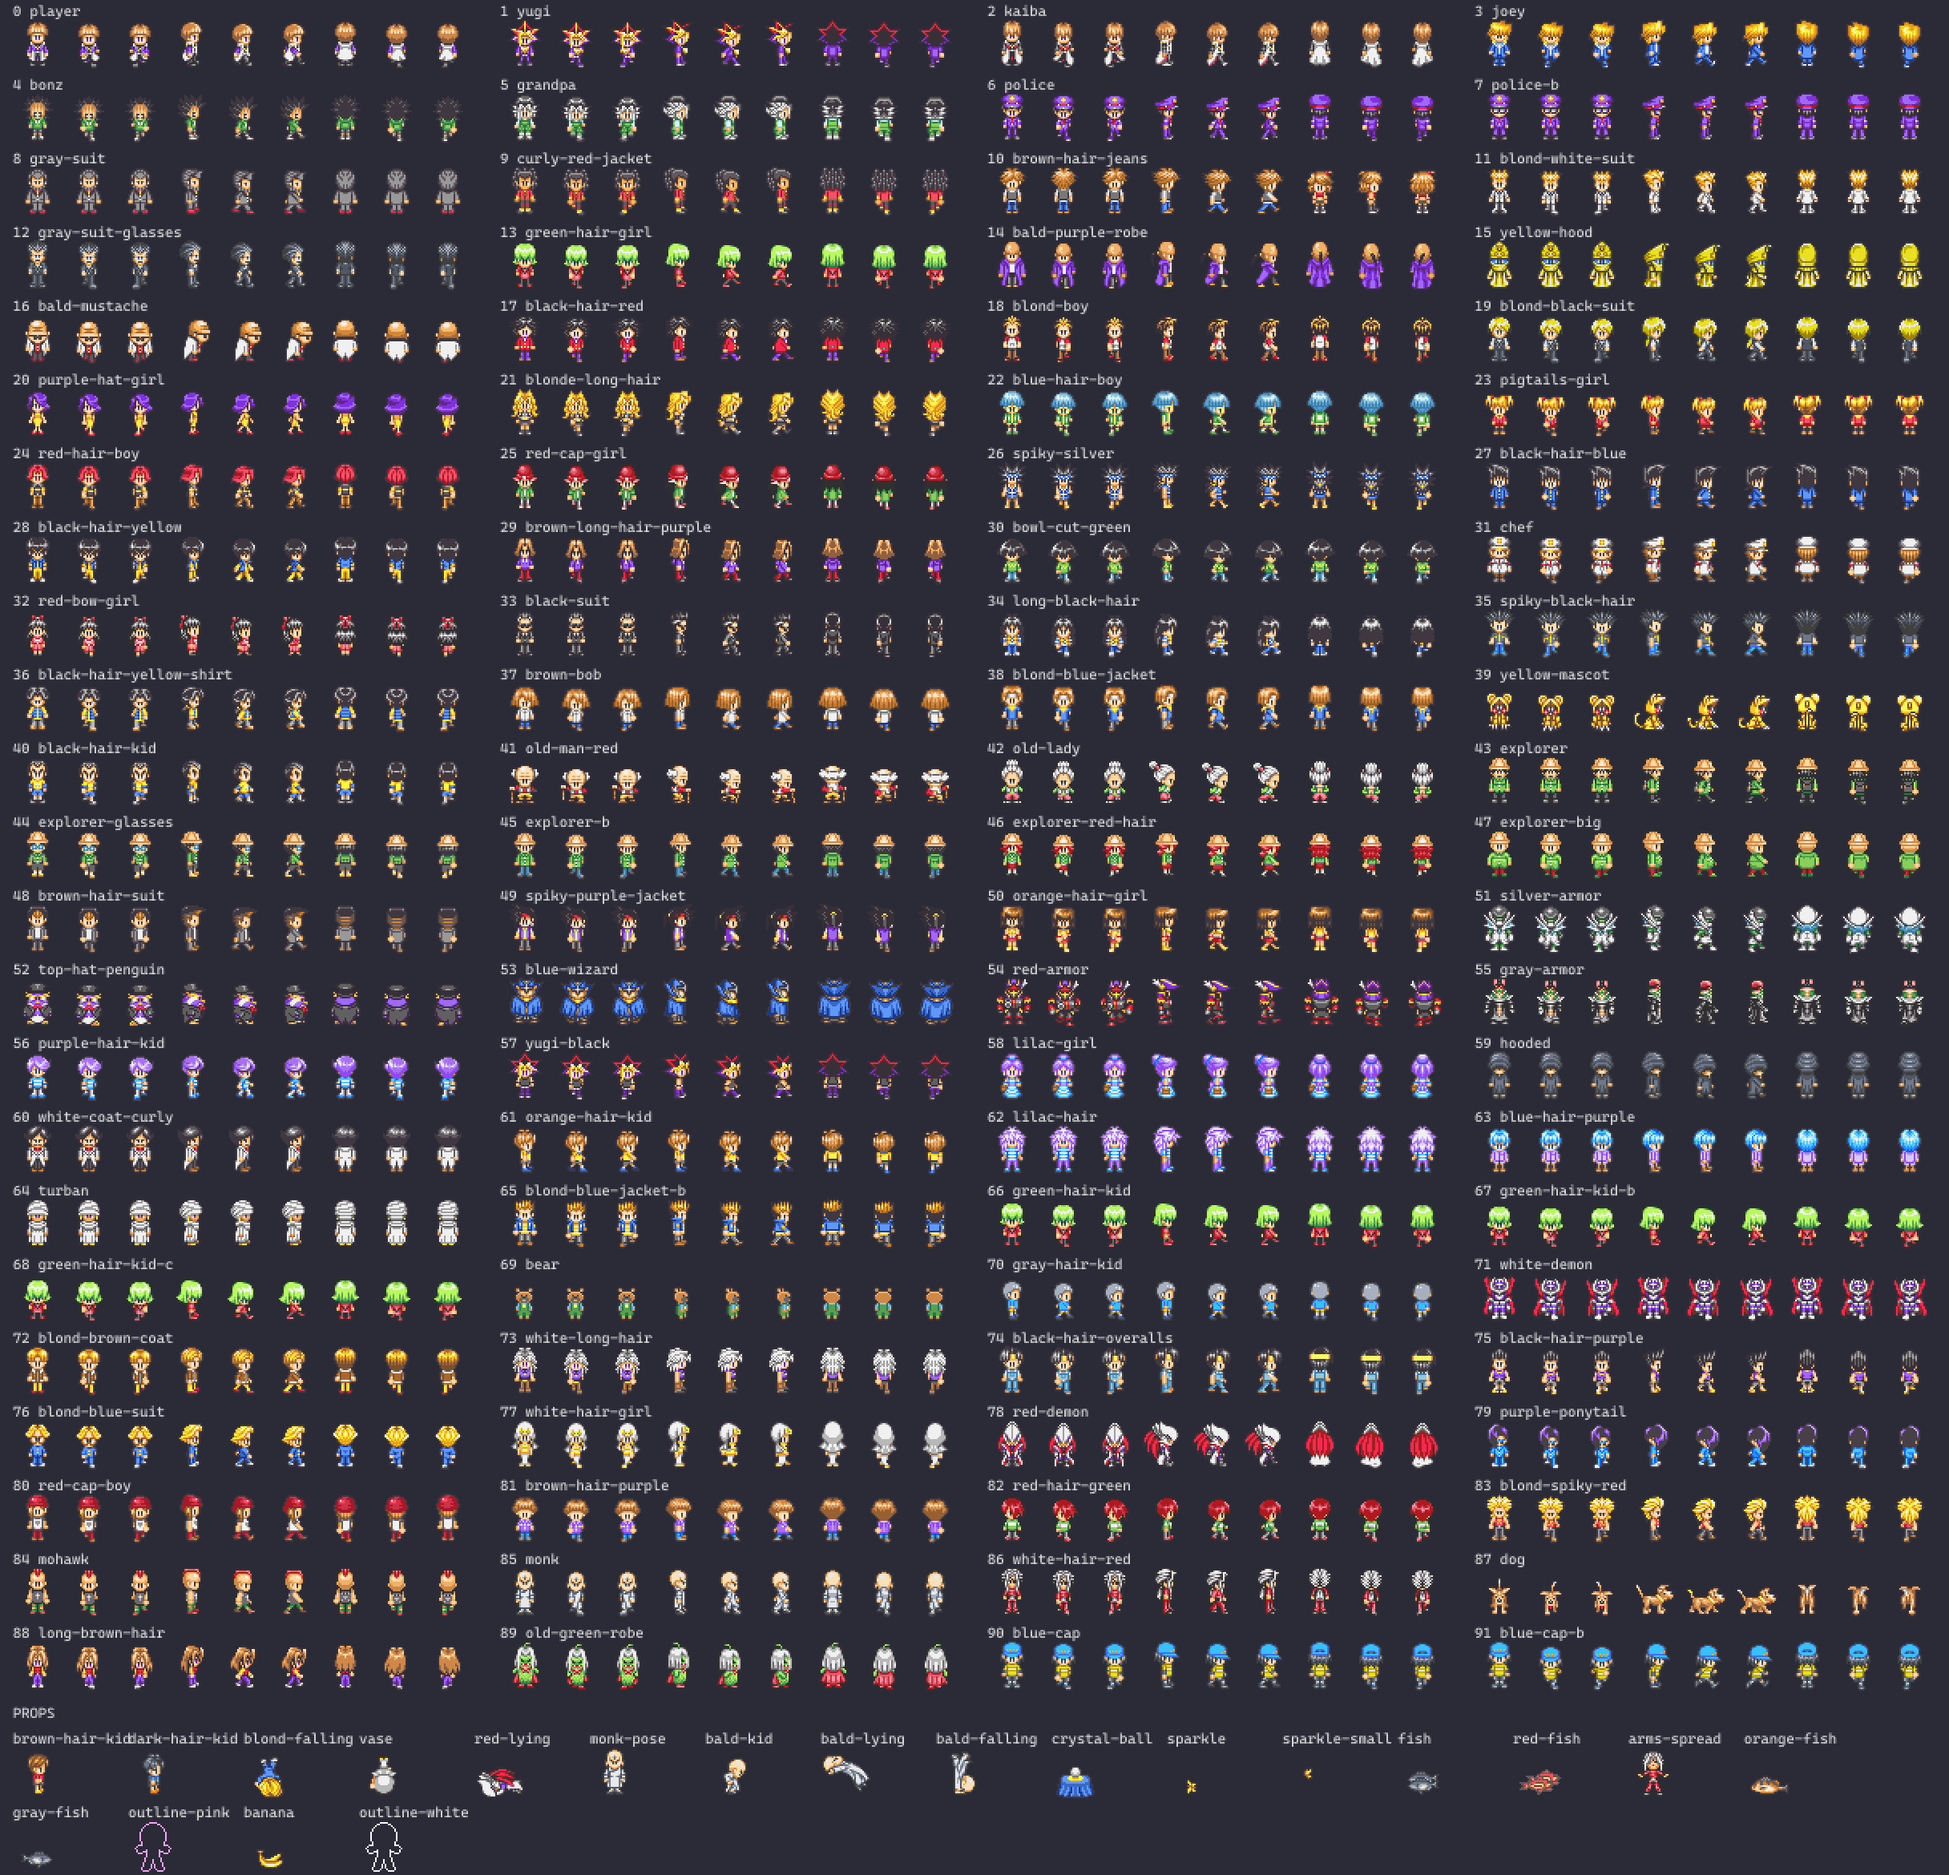
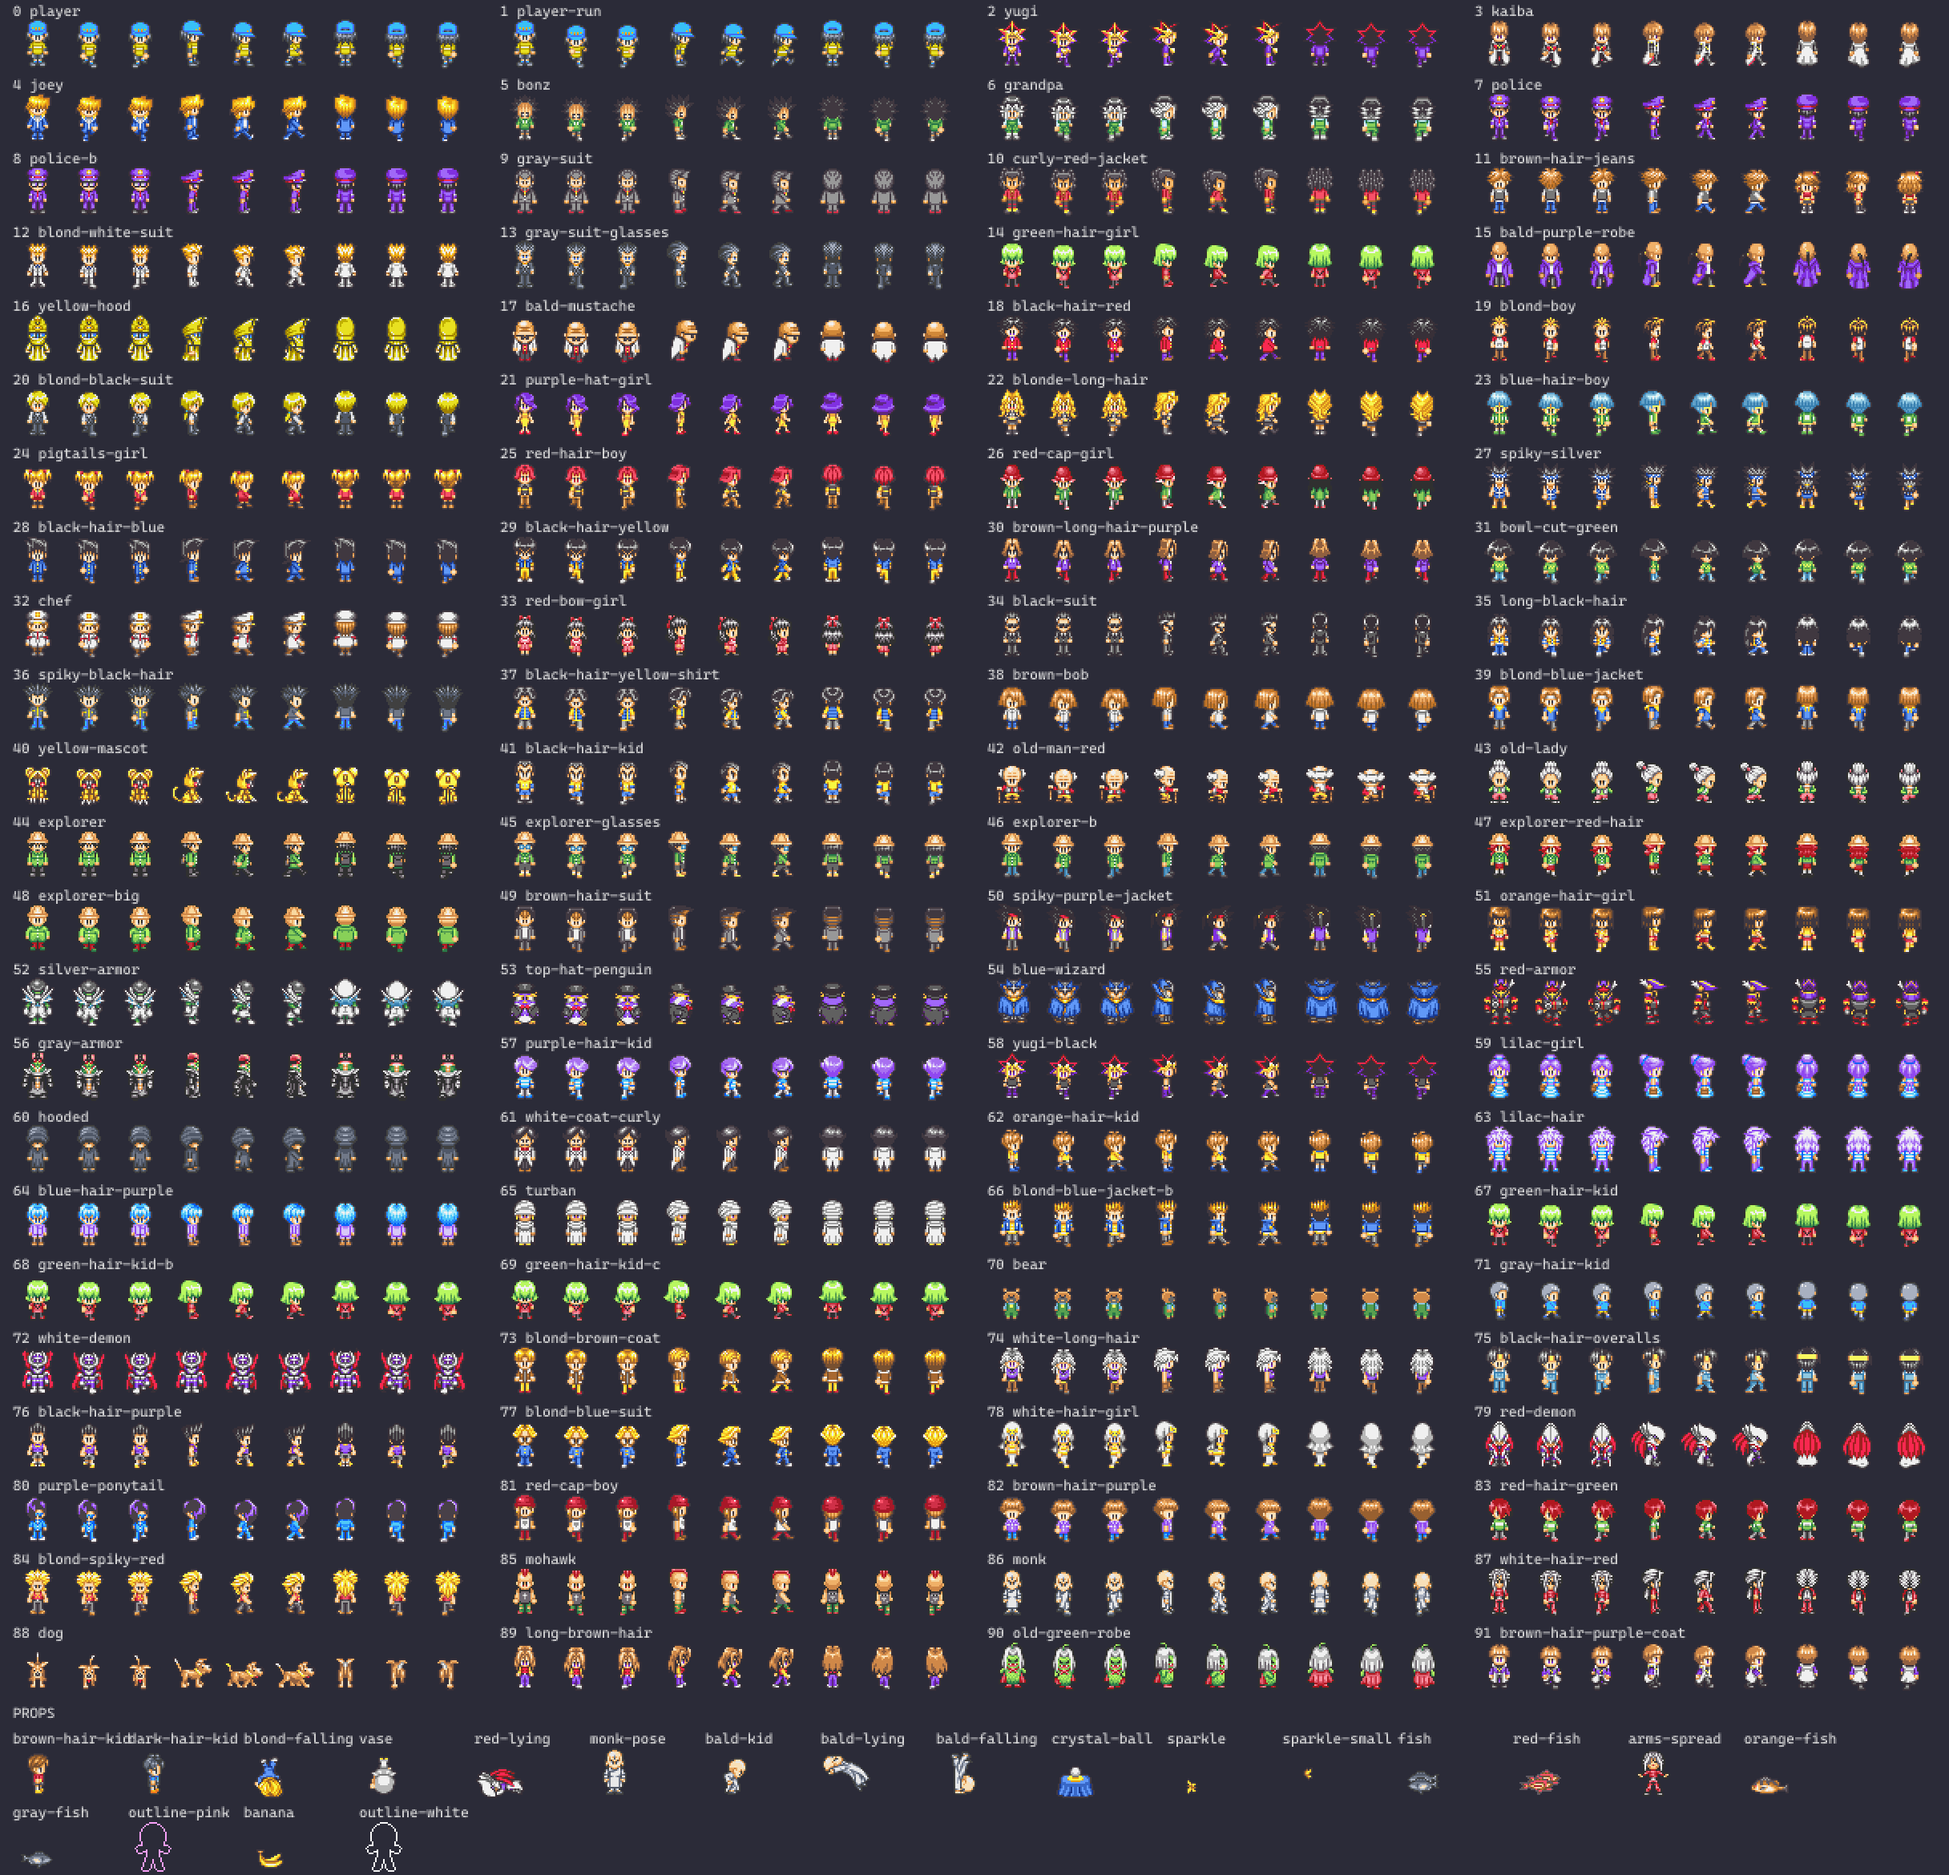
Overworld: blue-cap player sprite, hold Z to run
The player is now the blue-cap character, with its running frames as player-run (the old player
sprite stays available as brown-hair-purple-coat). Holding Z moves 1.5x faster with the run frames.
Walking slowed to 70 px/s; walk/run animations at 4/6 fps.

Changed region(s): [[0.0, 0.0, 1.0, 0.9047]]

diff --git a/src/scenes/Overworld.ts b/src/scenes/Overworld.ts
@@ -41,11 +41,11 @@ function frameOf(scene: Phaser.Scene, name: string, facing: Facing, step = 0): n
 }
 
 /** The character's walk animation for a facing (step, stand, other step, stand), created on first use. */
-function walkAnim(scene: Phaser.Scene, name: string, facing: Facing): string {
+function walkAnim(scene: Phaser.Scene, name: string, facing: Facing, frameRate = 8): string {
   const key = `${name}-walk-${facing}`;
   if (!scene.anims.exists(key)) {
     const frames = [1, 0, 2, 0].map((step) => ({ key: CHARACTERS, frame: frameOf(scene, name, facing, step) }));
-    scene.anims.create({ key, frames, frameRate: 8, repeat: -1 });
+    scene.anims.create({ key, frames, frameRate, repeat: -1 });
   }
   return key;
 }
@@ -72,7 +72,9 @@ const NPCS: Record<string, NpcDef[]> = {
   ],
 };
 
-const TALK_DISTANCE = 56, SPEED = 100, FADE_MS = 200;
+const TALK_DISTANCE = 56, SPEED = 70, FADE_MS = 200;
+/** Holding Z runs: this much faster, with the "player-run" frames. */
+const RUN_SPEED = 1.5;
 
 /** Where the player stood when they left for a duel or the lobby, and who they were dueling. */
 let saved: { x: number; y: number; facing: Facing; flipX: boolean; opponent?: string } | null = null;
@@ -90,6 +92,7 @@ export class Overworld extends Phaser.Scene {
   /** The map's hidden "collision" layer, if it has one. */
   private blockers: Phaser.Tilemaps.TilemapLayer | null = null;
   private cursors!: Phaser.Types.Input.Keyboard.CursorKeys;
+  private runKey!: Phaser.Input.Keyboard.Key;
   /** On-screen D-pad and X on touch devices. */
   private pad: TouchPad | null = null;
   private dialog!: DialogBox;
@@ -202,6 +205,7 @@ export class Overworld extends Phaser.Scene {
     this.physics.world.setBounds(0, 0, map.widthInPixels, map.heightInPixels);
     this.cameras.main.fadeIn(FADE_MS);
     this.cursors = this.input.keyboard!.createCursorKeys();
+    this.runKey = this.input.keyboard!.addKey(Phaser.Input.Keyboard.KeyCodes.Z);
 
     const opponent = saved?.opponent;
     saved = null;
@@ -427,8 +431,9 @@ export class Overworld extends Phaser.Scene {
     if (this.cursors.right.isDown || this.pad?.x === 1) vx = SPEED;
     if (this.cursors.up.isDown || this.pad?.y === -1) vy = -SPEED;
     if (this.cursors.down.isDown || this.pad?.y === 1) vy = SPEED;
+    const running = this.runKey.isDown;
     this.player.setVelocity(vx, vy);
-    this.player.body.velocity.normalize().scale(SPEED); // same speed on diagonals
+    this.player.body.velocity.normalize().scale(running ? SPEED * RUN_SPEED : SPEED); // same speed on diagonals
 
     // Horizontal wins when moving diagonally.
     if (vx !== 0) {
@@ -437,7 +442,7 @@ export class Overworld extends Phaser.Scene {
     } else if (vy < 0) this.facing = "up";
     else if (vy > 0) this.facing = "down";
 
-    if (vx !== 0 || vy !== 0) this.player.play(walkAnim(this, "player", this.facing), true);
+    if (vx !== 0 || vy !== 0) this.player.play(walkAnim(this, running ? "player-run" : "player", this.facing, running ? 6 : 4), true);
     else {
       this.player.anims.stop();
       this.player.setFrame(frameOf(this, "player", this.facing));

diff --git a/CLAUDE.md b/CLAUDE.md
@@ -168,7 +168,7 @@ choppy in screenshots. In dev builds `window.duelScene` exposes the scene (`.con
   seed; then rock-paper-scissors packets (`rps` hands, the winner's `order`) decide the seats. Pings every 3 s; 20 s of silence or a "bye" =
   opponent left. Room codes use letters that tiny5 can't confuse with digits. `wire.ts`: response encoding (bigints).
 - `src/scenes/` — Phaser scenes. `Boot` → `Overworld` (the Tiled map from `build-tiles`, Arcade physics (scene-local
-  config), arrow keys; wall tiles are redrawn in layers y-sorted with the characters by their base row (`buildSortedWalls`); ground layers (every `ground*` layer, in map order) and wall layers (every `walls*` layer: walls, walls2...; they collide and y-sort together, a later layer drawn over an earlier one on the same base) are baked into RenderTextures once; an optional hidden `collision` tile layer blocks wherever it has a tile and counts as collision for the y-sort (walls' own tiles collide by the tileset's `collision` property) (`bake`: live tilemap layers re-culled every tile each frame: 4.2 → 0.6 ms a frame on a desktop);
+  config), arrow keys, hold Z to run (`RUN_SPEED` 1.5x, the `player-run` frames); wall tiles are redrawn in layers y-sorted with the characters by their base row (`buildSortedWalls`); ground layers (every `ground*` layer, in map order) and wall layers (every `walls*` layer: walls, walls2...; they collide and y-sort together, a later layer drawn over an earlier one on the same base) are baked into RenderTextures once; an optional hidden `collision` tile layer blocks wherever it has a tile and counts as collision for the y-sort (walls' own tiles collide by the tileset's `collision` property) (`bake`: live tilemap layers re-culled every tile each frame: 4.2 → 0.6 ms a frame on a desktop);
   32px character frames (`characters.png`, by name: `frameOf`, `walkAnim`) drawn at 2x; maps link through `warp` rectangles in their `objects` layer (properties `map`,
   `spawn` = the arrival point's name there, `keepY` = keep the height: town and maze sit side by side, tops aligned,
   town's right edge ↔ maze's left meadow, by the entrance); a warp fades out and restarts the scene on the target map (loaded on first
